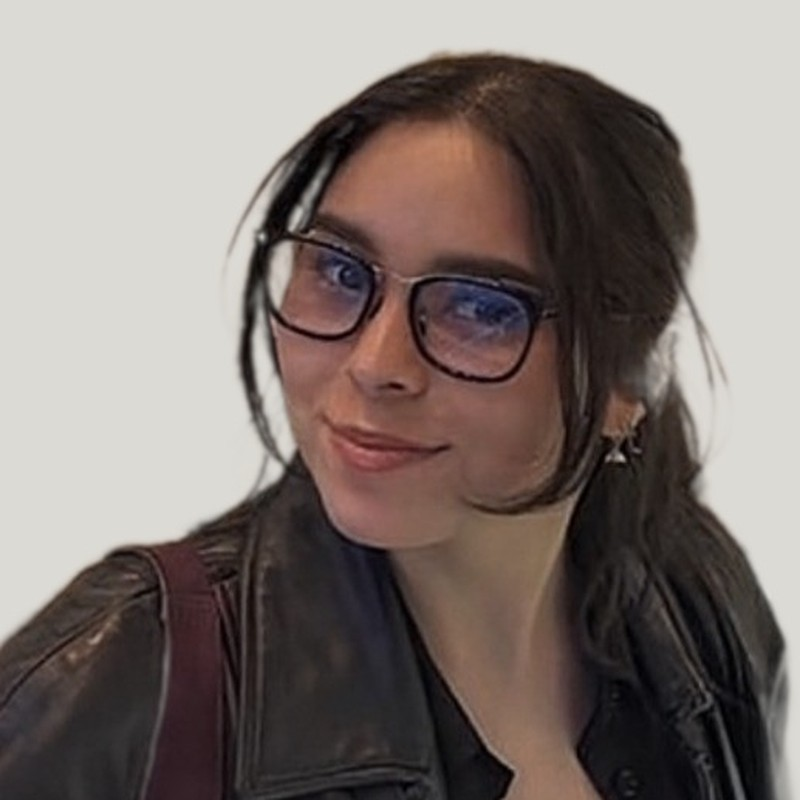
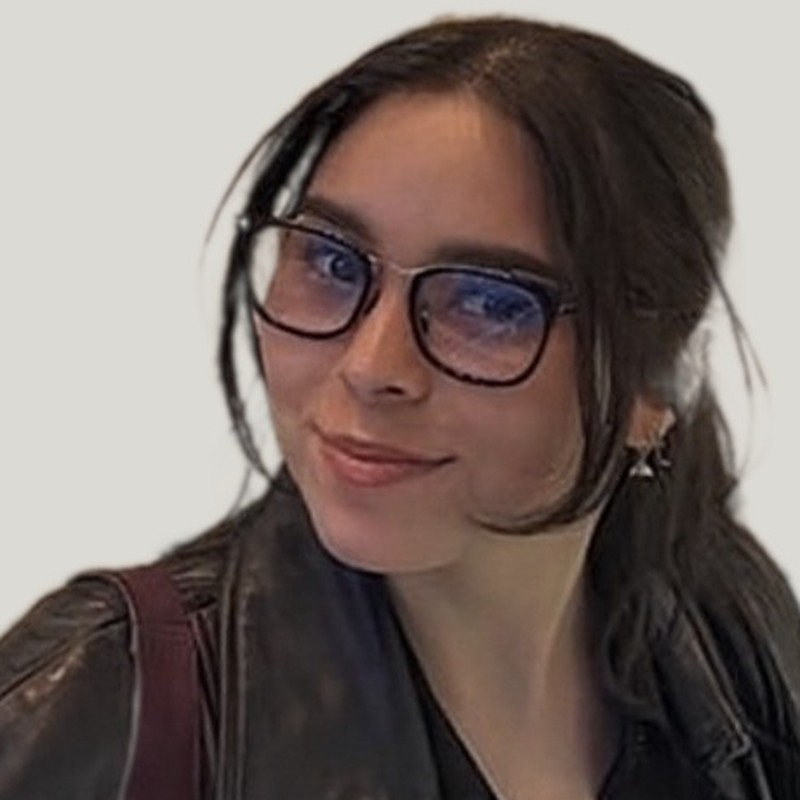
Founders: tight crops, heads at the top edge, equal face size

diff --git a/index.html b/index.html
@@ -151,9 +151,9 @@
         <h2>Founders<small>Who we are</small></h2>
         <div class="reveal">
           <div class="cards">
-            <div class="card person"><div class="photo"><img src="assets/team/brianna.jpg?v=3" alt="Brianna Gabaldon" width="800" height="800" loading="lazy"></div><div class="who"><h3>Brianna Gabaldon</h3><a class="li" href="https://www.linkedin.com/in/brianna-gabaldon-328011149/" rel="noopener" aria-label="Brianna Gabaldon on LinkedIn">in</a></div><span class="role">CEO / Co-founder</span><p class="fine">Product manager on an operating system shipping to 1.4+ billion devices. B.S. Computer Science; M.S. Global Security, Conflict and Cybercrime (NYU), thesis on human factors in cyber risk. Ethical Tech CoLab advisor.</p></div>
-            <div class="card person"><div class="photo"><img src="assets/team/daniel.jpg?v=3" alt="Daniel Vitenko" width="800" height="800" loading="lazy"></div><div class="who"><h3>Daniel Vitenko</h3><a class="li" href="https://www.linkedin.com/in/daniel-vitenko/" rel="noopener" aria-label="Daniel Vitenko on LinkedIn">in</a></div><span class="role">CTO / Co-founder</span><p class="fine">B.S. Computational Mathematics; M.S. Quantum Science. Graduate research in large-scale RQC behavior and Fermi gas simulations.</p></div>
-            <div class="card person"><div class="photo"><img src="assets/team/carolina.jpg?v=2" alt="Carolina Pernambuco Moron" width="800" height="800" loading="lazy"></div><div class="who"><h3>Carolina Pernambuco Moron</h3><a class="li" href="https://www.linkedin.com/in/carolina-pernambuco-moron/" rel="noopener" aria-label="Carolina Pernambuco Moron on LinkedIn">in</a></div><span class="role">CPO / Co-founder</span><p class="fine">B.S. International Business; M.S. Global Economy with a specialization in Data Analytics; M.S. Global Security, Conflict and Cybercrime (NYU).</p></div>
+            <div class="card person"><div class="photo"><img src="assets/team/brianna.jpg?v=4" alt="Brianna Gabaldon" width="800" height="800" loading="lazy"></div><div class="who"><h3>Brianna Gabaldon</h3><a class="li" href="https://www.linkedin.com/in/brianna-gabaldon-328011149/" rel="noopener" aria-label="Brianna Gabaldon on LinkedIn">in</a></div><span class="role">CEO / Co-founder</span><p class="fine">Product manager on an operating system shipping to 1.4+ billion devices. B.S. Computer Science; M.S. Global Security, Conflict and Cybercrime (NYU), thesis on human factors in cyber risk. Ethical Tech CoLab advisor.</p></div>
+            <div class="card person"><div class="photo"><img src="assets/team/daniel.jpg?v=4" alt="Daniel Vitenko" width="800" height="800" loading="lazy"></div><div class="who"><h3>Daniel Vitenko</h3><a class="li" href="https://www.linkedin.com/in/daniel-vitenko/" rel="noopener" aria-label="Daniel Vitenko on LinkedIn">in</a></div><span class="role">CTO / Co-founder</span><p class="fine">B.S. Computational Mathematics; M.S. Quantum Science. Graduate research in large-scale RQC behavior and Fermi gas simulations.</p></div>
+            <div class="card person"><div class="photo"><img src="assets/team/carolina.jpg?v=4" alt="Carolina Pernambuco Moron" width="800" height="800" loading="lazy"></div><div class="who"><h3>Carolina Pernambuco Moron</h3><a class="li" href="https://www.linkedin.com/in/carolina-pernambuco-moron/" rel="noopener" aria-label="Carolina Pernambuco Moron on LinkedIn">in</a></div><span class="role">CPO / Co-founder</span><p class="fine">B.S. International Business; M.S. Global Economy with a specialization in Data Analytics; M.S. Global Security, Conflict and Cybercrime (NYU).</p></div>
           </div>
           <p class="fine" style="margin-top:20px">This work builds on <em>The Human Architecture of Cyber Risk: How Micro-Businesses Operate Beyond Conventional Frameworks</em>, M.S. thesis, NYU Center for Global Affairs, April 2026.</p>
         </div>
